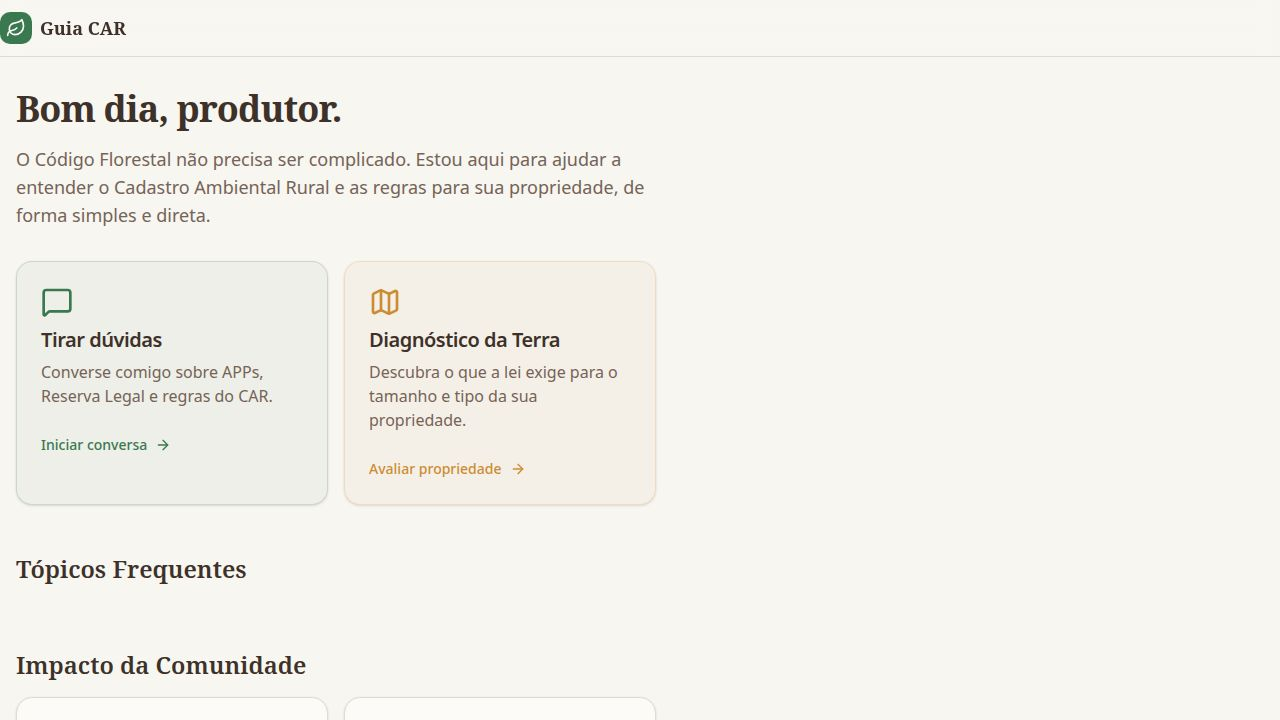
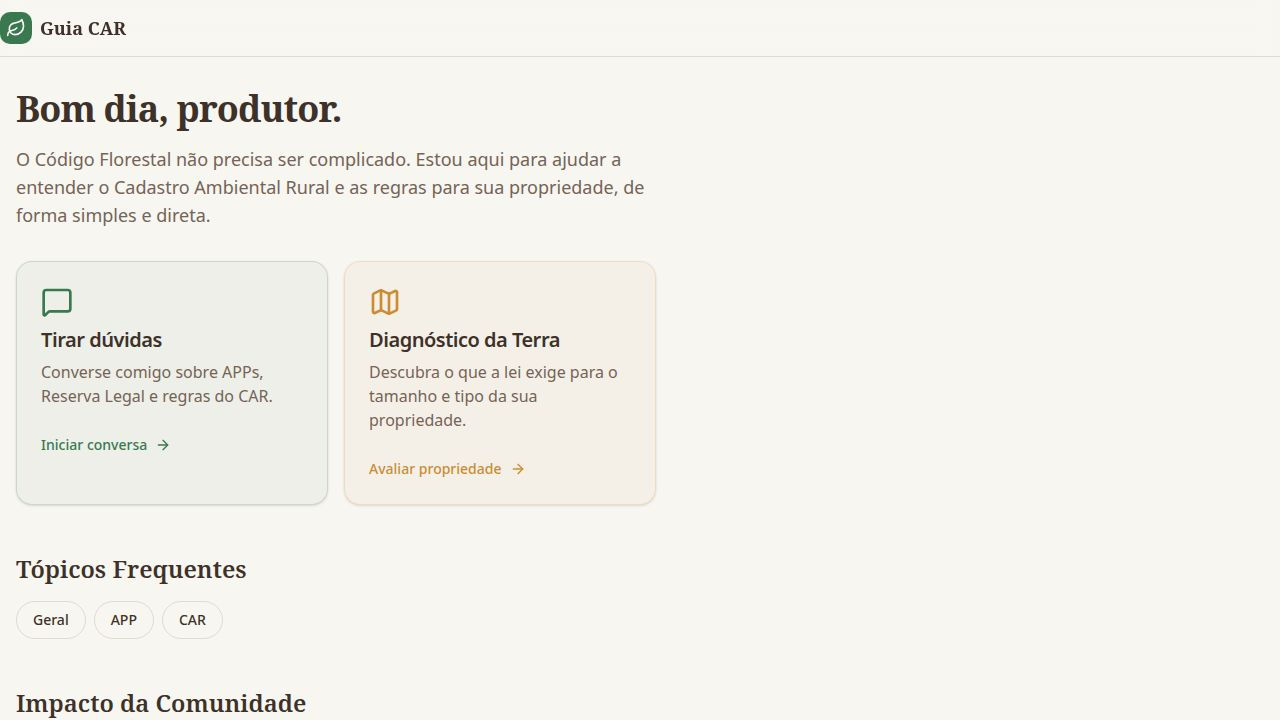
Integrate Google Gemini as the AI chat assistant for the CAR app
Replace OpenAI with Google Gemini (gemini-2.5-flash) in the API server, updating environment variable requirements and documentation.

Replit-Commit-Author: Agent
Replit-Commit-Session-Id: dfb9a671-5069-4020-8b92-f21fc7070d20
Replit-Commit-Checkpoint-Type: full_checkpoint
Replit-Commit-Event-Id: bedfa92b-1b81-4654-be10-f9cae27f9d87
Replit-Commit-Screenshot-Url: https://storage.googleapis.com/screenshot-production-us-central1/6492c076-9649-4e57-9c5b-61f996f2d950/dfb9a671-5069-4020-8b92-f21fc7070d20/UBzLBx4
Replit-Helium-Checkpoint-Created: true

Changed region(s): [[0.0, 0.9167, 0.25, 1.0], [0.0938, 0.8556, 0.1562, 0.8861], [0.0312, 0.8556, 0.0625, 0.8861]]

diff --git a/artifacts/api-server/src/routes/chat.ts b/artifacts/api-server/src/routes/chat.ts
@@ -4,14 +4,14 @@ import { db } from "@workspace/db";
 import { chatSessionsTable, chatMessagesTable } from "@workspace/db";
 import { eq } from "drizzle-orm";
 import { ListMessagesQueryParams, SendMessageBody } from "@workspace/api-zod";
-import OpenAI from "openai";
+import { GoogleGenAI } from "@google/genai";
 
 const router = Router();
 
-function getOpenAI() {
-  const apiKey = process.env.OPENAI_API_KEY;
-  if (!apiKey) throw new Error("OPENAI_API_KEY not set");
-  return new OpenAI({ apiKey });
+function getGenAI() {
+  const apiKey = process.env.GOOGLE_API_KEY;
+  if (!apiKey) throw new Error("GOOGLE_API_KEY not set");
+  return new GoogleGenAI({ apiKey });
 }
 
 const SYSTEM_PROMPT = `Você é o Assistente do CAR (Cadastro Ambiental Rural), um guia especialista em legislação ambiental brasileira, especialmente o Código Florestal (Lei nº 12.651/2012) e o CAR.
@@ -87,7 +87,7 @@ router.post("/chat/messages", async (req, res) => {
   const topic = detectTopic(content);
   await db.insert(chatMessagesTable).values({ sessionId, role: "user", content, topic });
 
-  // Get conversation history
+  // Get conversation history (excluding the message just saved)
   const history = await db
     .select()
     .from(chatMessagesTable)
@@ -97,21 +97,26 @@ router.post("/chat/messages", async (req, res) => {
   let assistantContent: string;
 
   try {
-    const openai = getOpenAI();
-    const chatMessages: OpenAI.Chat.ChatCompletionMessageParam[] = [
-      { role: "system", content: SYSTEM_PROMPT },
-      ...history.map(m => ({ role: m.role as "user" | "assistant", content: m.content })),
-    ];
+    const genai = getGenAI();
 
-    const completion = await openai.chat.completions.create({
-      model: "gpt-4o-mini",
-      messages: chatMessages,
-      max_tokens: 800,
+    // Build conversation history for Gemini (all messages except the last user message)
+    const previousMessages = history.slice(0, -1);
+    const geminiHistory = previousMessages.map(m => ({
+      role: m.role === "assistant" ? "model" : "user" as "user" | "model",
+      parts: [{ text: m.content }],
+    }));
+
+    const chat = genai.chats.create({
+      model: "gemini-2.5-flash",
+      config: { systemInstruction: SYSTEM_PROMPT, maxOutputTokens: 800 },
+      history: geminiHistory,
     });
 
-    assistantContent = completion.choices[0]?.message?.content ?? "Desculpe, não consegui processar sua pergunta. Tente novamente.";
-  } catch {
-    assistantContent = "Desculpe, o assistente de IA não está disponível no momento. Verifique se a chave OPENAI_API_KEY está configurada corretamente.";
+    const response = await chat.sendMessage({ message: content });
+    assistantContent = response.text ?? "Desculpe, não consegui processar sua pergunta. Tente novamente.";
+  } catch (err) {
+    const msg = err instanceof Error ? err.message : String(err);
+    assistantContent = `Desculpe, o assistente não está disponível no momento. (${msg})`;
   }
 
   const [saved] = await db.insert(chatMessagesTable).values({

diff --git a/replit.md b/replit.md
@@ -11,7 +11,7 @@ Assistente inteligente que traduz a legislação ambiental brasileira (Código F
 - `pnpm --filter @workspace/api-spec run codegen` — regenerate API hooks and Zod schemas from the OpenAPI spec
 - `pnpm --filter @workspace/db run push` — push DB schema changes (dev only)
 - Required env: `DATABASE_URL` — Postgres connection string
-- Required env: `OPENAI_API_KEY` — OpenAI key for the AI chat assistant
+- Required env: `GOOGLE_API_KEY` — Google AI Studio key for the Gemini chat assistant
 
 ## Stack
 
@@ -22,7 +22,7 @@ Assistente inteligente que traduz a legislação ambiental brasileira (Código F
 - Validation: Zod (`zod/v4`), `drizzle-zod`
 - API codegen: Orval (from OpenAPI spec)
 - Build: esbuild (CJS bundle)
-- AI: OpenAI gpt-4o-mini (chat assistant)
+- AI: Google Gemini 2.5 Flash (chat assistant)
 
 ## Where things live
 